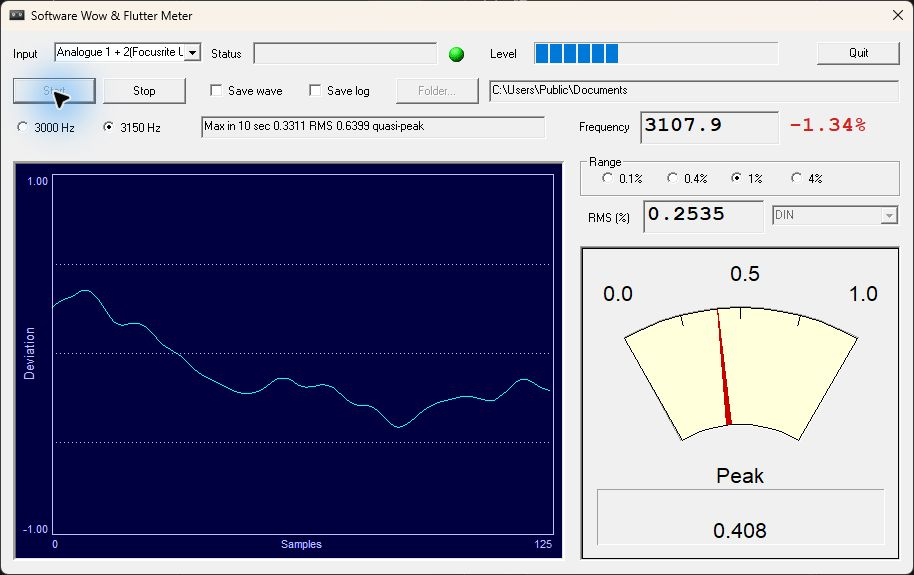
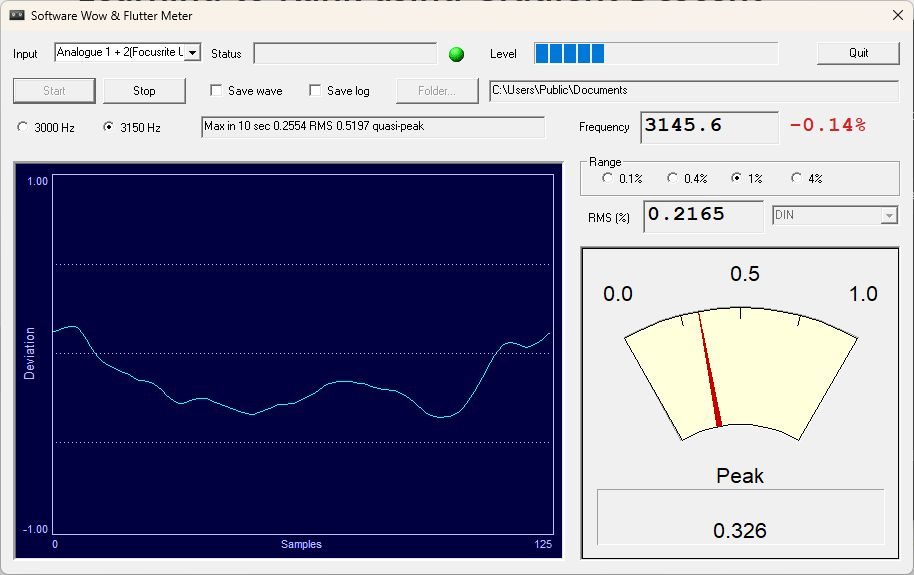
Document int32 capture and refresh cursor-free screenshot

diff --git a/docs/MEASUREMENT_FORMAT.md b/docs/MEASUREMENT_FORMAT.md
@@ -9,13 +9,16 @@ This document describes the current BaristaYU fork. The implementation is in
 - Select **Folder...** before Start. The initial location is the executable's
   directory; the last selected folder is saved in the application's Windows
   profile settings.
-- **Save log** creates `WFGUI_log.txt`; **Save wave** creates `WFGUI_wave.dat`.
+- **Save log** creates `WFGUI_log.txt`; **Save wave** creates `WFGUI_wave.dat`
+  and its companion `WFGUI_wave.meta.json`.
   Select either option, or both, before Start.
 - Files open in truncate/write mode on Start. **An existing file with that name
   is overwritten**, including when the same session is restarted.
-- Stop closes the files. Copy or rename them before the next capture.
+- Stop closes the files. Copy or rename the raw data and its metadata together
+  before the next capture. The metadata is written and flushed before capture.
 - The folder picker is disabled while measuring. A failure to open a requested
-  file prevents measurement from starting and displays an error. File creation
+  file (including raw metadata) prevents measurement from starting and displays
+  an error. File creation
   is not transactional: another selected file may already have been truncated.
 
 ## CSV: `WFGUI_log.txt`
@@ -79,8 +82,10 @@ weighting filter. The audio band-pass stage still precedes demodulation.
 
 | Property | Value |
 | --- | --- |
-| Container | None: no header, metadata, or timestamps |
-| Sample type | Signed 16-bit integer, little-endian |
+| Container | None: the `.dat` file has no header or timestamps; format metadata is in the companion JSON |
+| Sample type | Signed 32-bit integer, little-endian (`signed-int32-le`) |
+| Sample width | 4 bytes; the file size is four times the number of stored samples |
+| Format version | 2, identified by `WFGUI_wave.meta.json` |
 | Channels | One |
 | Import offset | 0 bytes |
 | Nominal sample rate, 3000 Hz reference | 6000 samples/s |
@@ -92,7 +97,8 @@ The calculation is:
 
 ```text
 nominal_half_period_ns = 1e9 / (2 * reference_hz)
-count = signed_int16(10 * (nominal_half_period_ns - measured_half_period_ns))
+counts = 10 * (nominal_half_period_ns - measured_half_period_ns)
+count = signed_int32(saturate(counts, -2147483648, 2147483647))
 half_period_deviation_pct = count / (10 * nominal_half_period_ns) * 100
 ```
 
@@ -109,7 +115,7 @@ those gaps. Its duration after import need not equal elapsed capture time.
 
 ### Importing for diagnosis
 
-Use an audio editor's **Import Raw Data** command with signed 16-bit PCM,
+Use an audio editor's **Import Raw Data** command with signed 32-bit PCM,
 little-endian, mono, offset 0, and the nominal rate above. Renaming `.dat` to
 `.wav` does not add a WAV header.
 
@@ -117,10 +123,55 @@ The file includes the average half-period offset. If looking for modulation
 components, remove the DC component in a separate analysis copy. The selectable
 DIN/Wow/Flutter filter is not baked into this capture.
 
-The current implementation converts directly to a 16-bit value without a
-saturation check or clipping flag. Values outside -32768..32767 cannot be
-represented reliably. That limit is about +/-1.97% half-period deviation at
-3000 Hz, or +/-2.06% at 3150 Hz, less than the input validity range. Large speed
-offsets, acquisition transients, and dropouts can therefore make the raw file
-unsuitable for quantitative analysis. Preserve the CSV reference/filter preamble
-alongside raw files when archiving measurements.
+### Saturation and invalid samples
+
+The conversion checks the 32-bit bounds **before** casting. Finite in-range
+values retain truncation toward zero, as in the earlier format. Values above or
+below the range, including positive/negative infinity, saturate to the respective
+endpoint. NaN is stored as **-2147483648**.
+
+Treat both **-2147483648** and **2147483647** as flagged samples when analyzing a
+capture. Saturation prevents sign wrapping; it does not recover the underlying
+waveform. Do not include these endpoints as normal data in a spectrum estimate.
+Dropouts, acquisition transients, the nominal import rate, and the missing-gap
+behavior described above still require care.
+
+The larger integer extends the storage range, without changing the **0.1 ns per
+count** scale or the measurement algorithm. The meter and CSV frequency, RMS,
+and quasi-peak calculations continue to use the original floating-point path;
+they do not use the stored integer sample. A raw file write failure stops raw
+saving and displays `Raw capture write failed`, while measurement continues.
+
+### Format identification and older files
+
+Each new raw capture includes `WFGUI_wave.meta.json`, for example:
+
+```json
+{
+  "format_version": 2,
+  "data_file": "WFGUI_wave.dat",
+  "sample_format": "signed-int32-le",
+  "bytes_per_sample": 4,
+  "channels": 1,
+  "reference_hz": 3150,
+  "nominal_sample_rate_hz": 6300,
+  "units": "0.1 ns half-period error",
+  "scale_counts_per_ns": 10,
+  "weighting_applied": false,
+  "overflow_policy": "saturate",
+  "nan_value": -2147483648
+}
+```
+
+| Capture | Import type | Identification |
+| --- | --- | --- |
+| Earlier fork builds | Signed 16-bit, little-endian, mono | No format sidecar was produced. Use the producing build/capture records. |
+| Current build | Signed 32-bit, little-endian, mono | Companion JSON has `format_version: 2` and `sample_format: signed-int32-le`. |
+
+Both use the same filename, units, and nominal import rates, but the current raw
+file uses twice as much space for the same sample count. **Do not infer the
+format from file size or `.dat` extension.** If a sidecar is missing, establish
+the producing build before choosing the import width. Existing 16-bit captures
+are not converted by this change, and wrapped samples in them cannot be repaired
+simply by reinterpreting or widening their stored integers. Preserve the CSV
+reference/filter preamble alongside the raw data and sidecar when archiving.
